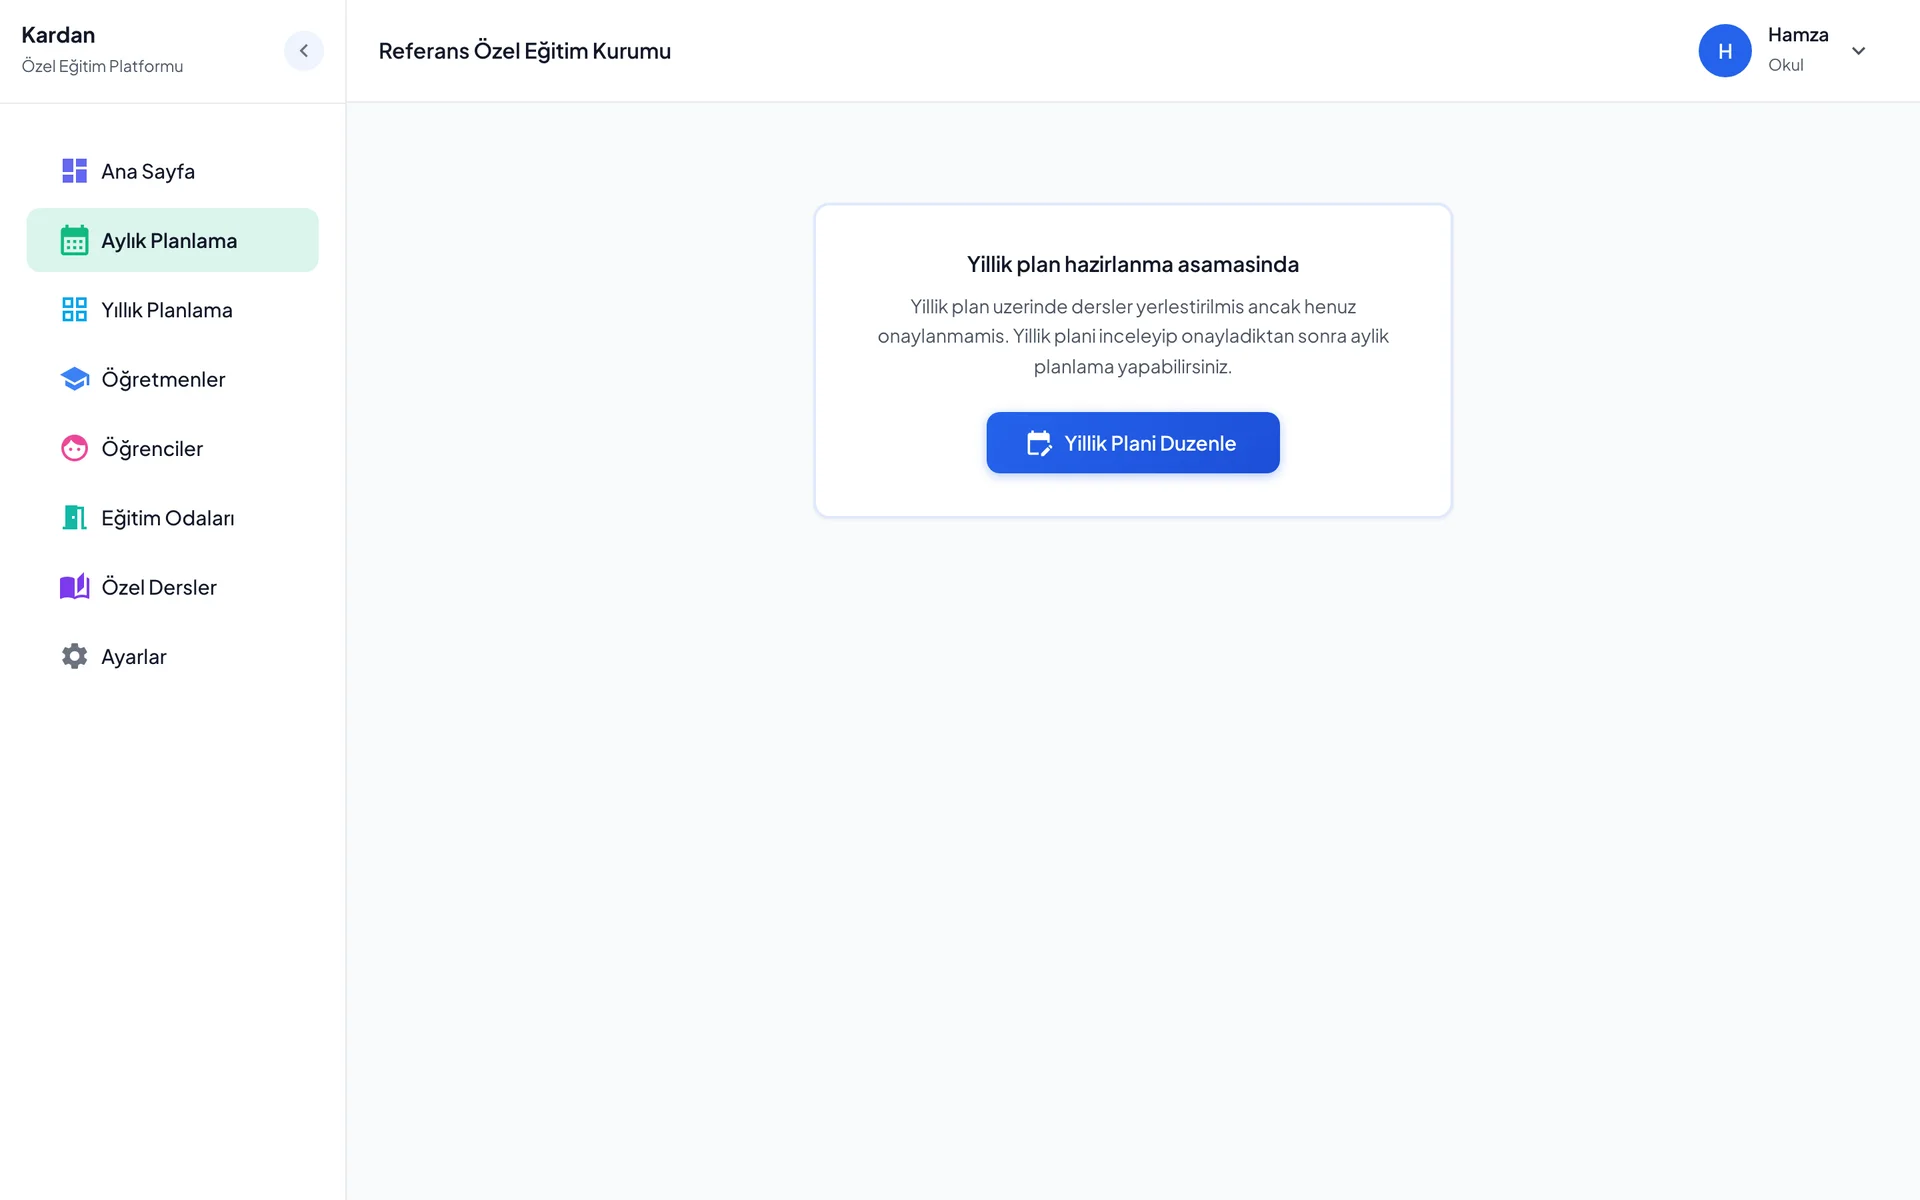
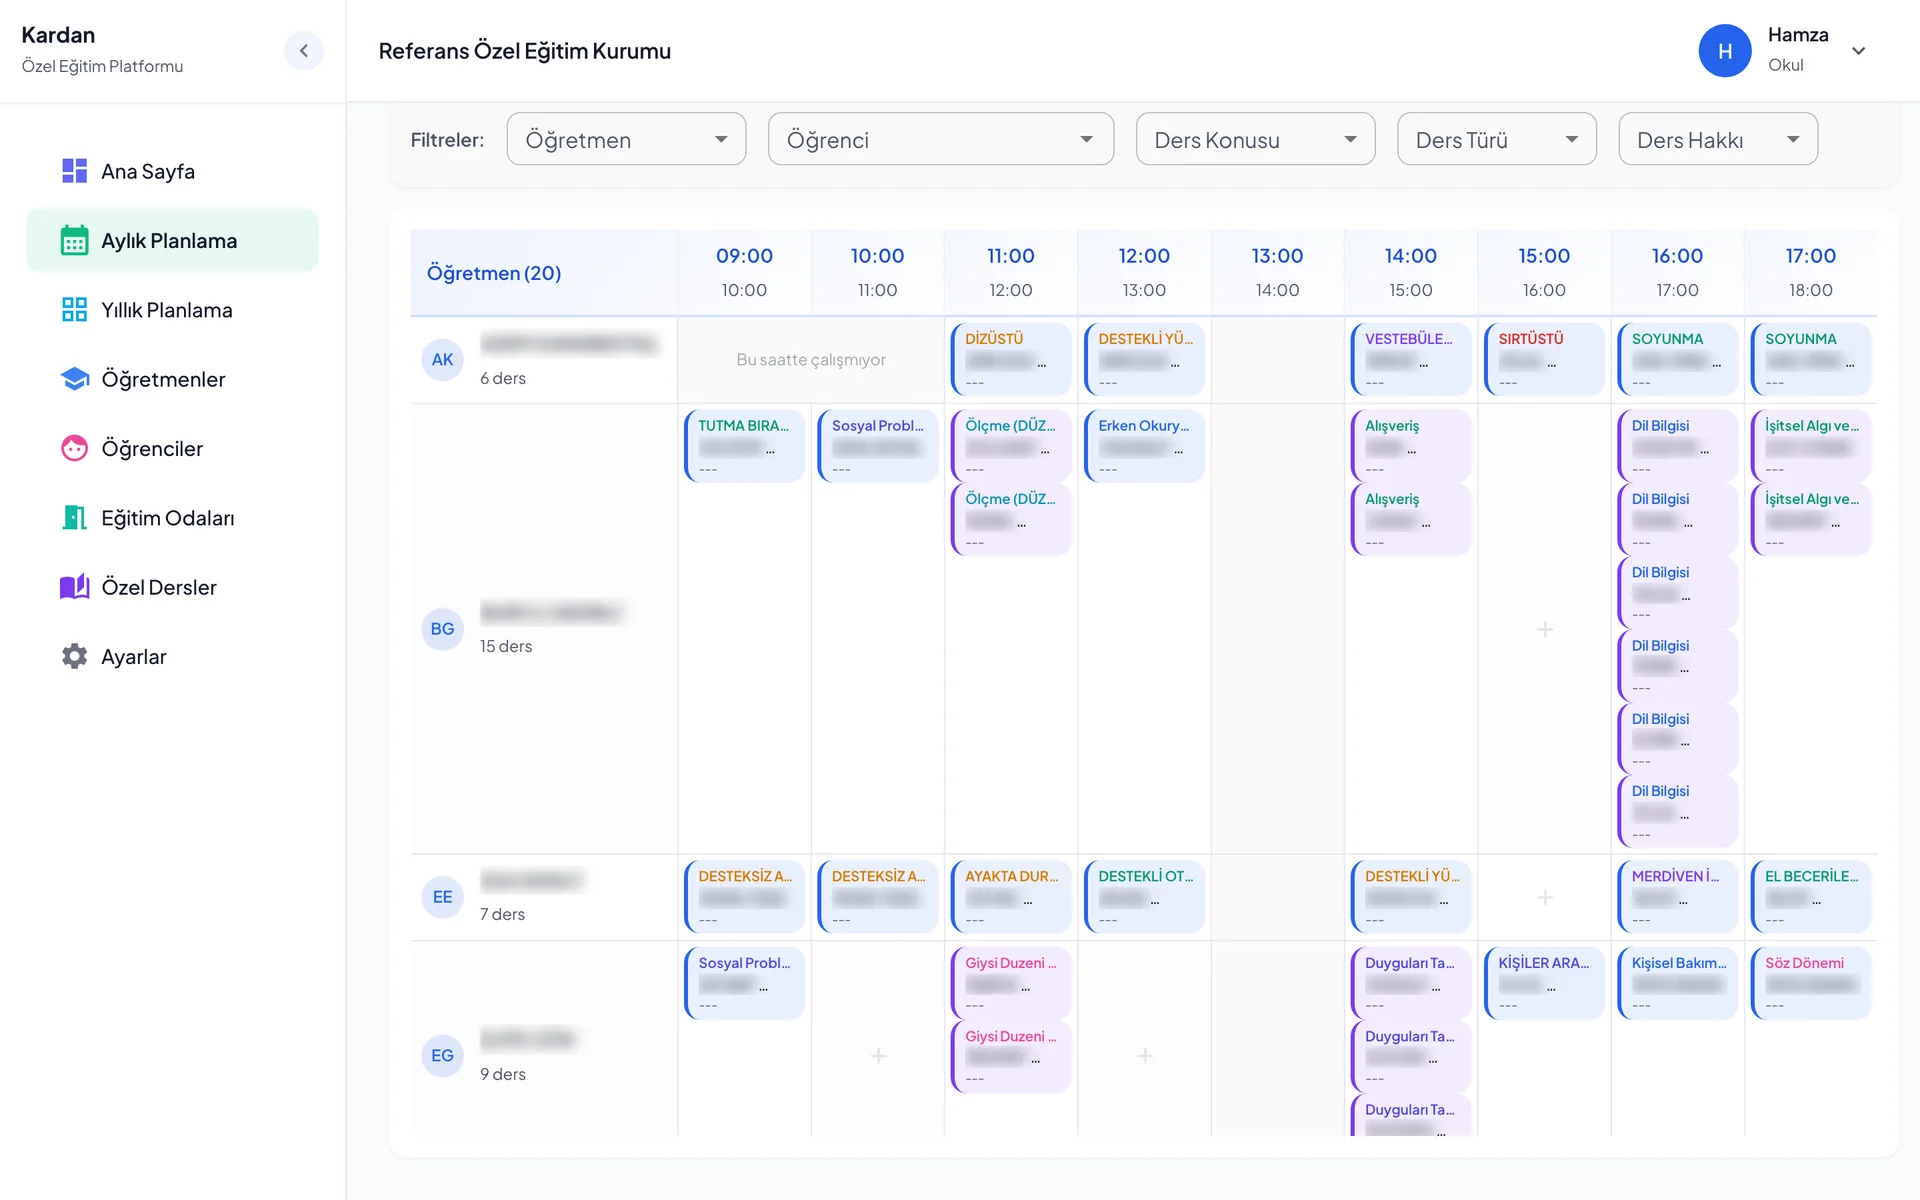
Carousel: add monthly planning (daily + month views), drop settings and rooms

diff --git a/index.html b/index.html
@@ -417,11 +417,12 @@
   // One entry per screenshot in screenshots/. Order here = order in the carousel.
   const SHOTS = [
     { file: 'dashboard.webp', title: 'Ana Sayfa', text: 'Aktif öğrenci, planlanan saat, telafi borcu ve MEBBİS aktarım durumu tek bakışta.' },
+    { file: 'planning.webp', title: 'Aylık Planlama · Günlük Görünüm', text: 'Bir günün tamamı öğretmen ve saat bazında: her ders, öğrencisi ve odasıyla yerinde.' },
+    { file: 'planning-month.webp', title: 'Aylık Planlama', text: 'Ayın tamamı tek ekranda: günlük ders sayıları, kapasite doluluğu ve eksik saat uyarıları.' },
+    { file: 'template.webp', title: 'Yıllık Plan', text: 'Motorun ürettiği haftalık şablon: binlerce ders, öğretmen, oda ve servis kısıtlarıyla tek seferde yerleşir.' },
     { file: 'students.webp', title: 'Öğrenciler', text: 'Rapor süresi, grup uygunluğu, tercih saati ve servis bilgisiyle filtrelenebilir öğrenci listesi.' },
     { file: 'teachers.webp', title: 'Öğretmenler', text: 'Her öğretmenin uzmanlıkları ve durumu; planlama motoru yalnızca yetkin öğretmenleri atar.' },
-    { file: 'rooms.webp', title: 'Eğitim Odaları', text: 'MEBBİS\'ten içe aktarılan odalar ve kapasiteleri; her ders uygun bir odaya yerleşir.' },
     { file: 'private-lessons.webp', title: 'Özel Dersler', text: 'MEBBİS dışı ücretli dersler haftalık takvimde; okul planıyla çakışmadan yönetilir.' },
-    { file: 'settings.webp', title: 'Ayarlar', text: 'MEBBİS kurulumu, resmi tatiller ve planlama motorunun okul bazlı ayarları.' },
   ];
 
   (function () {
